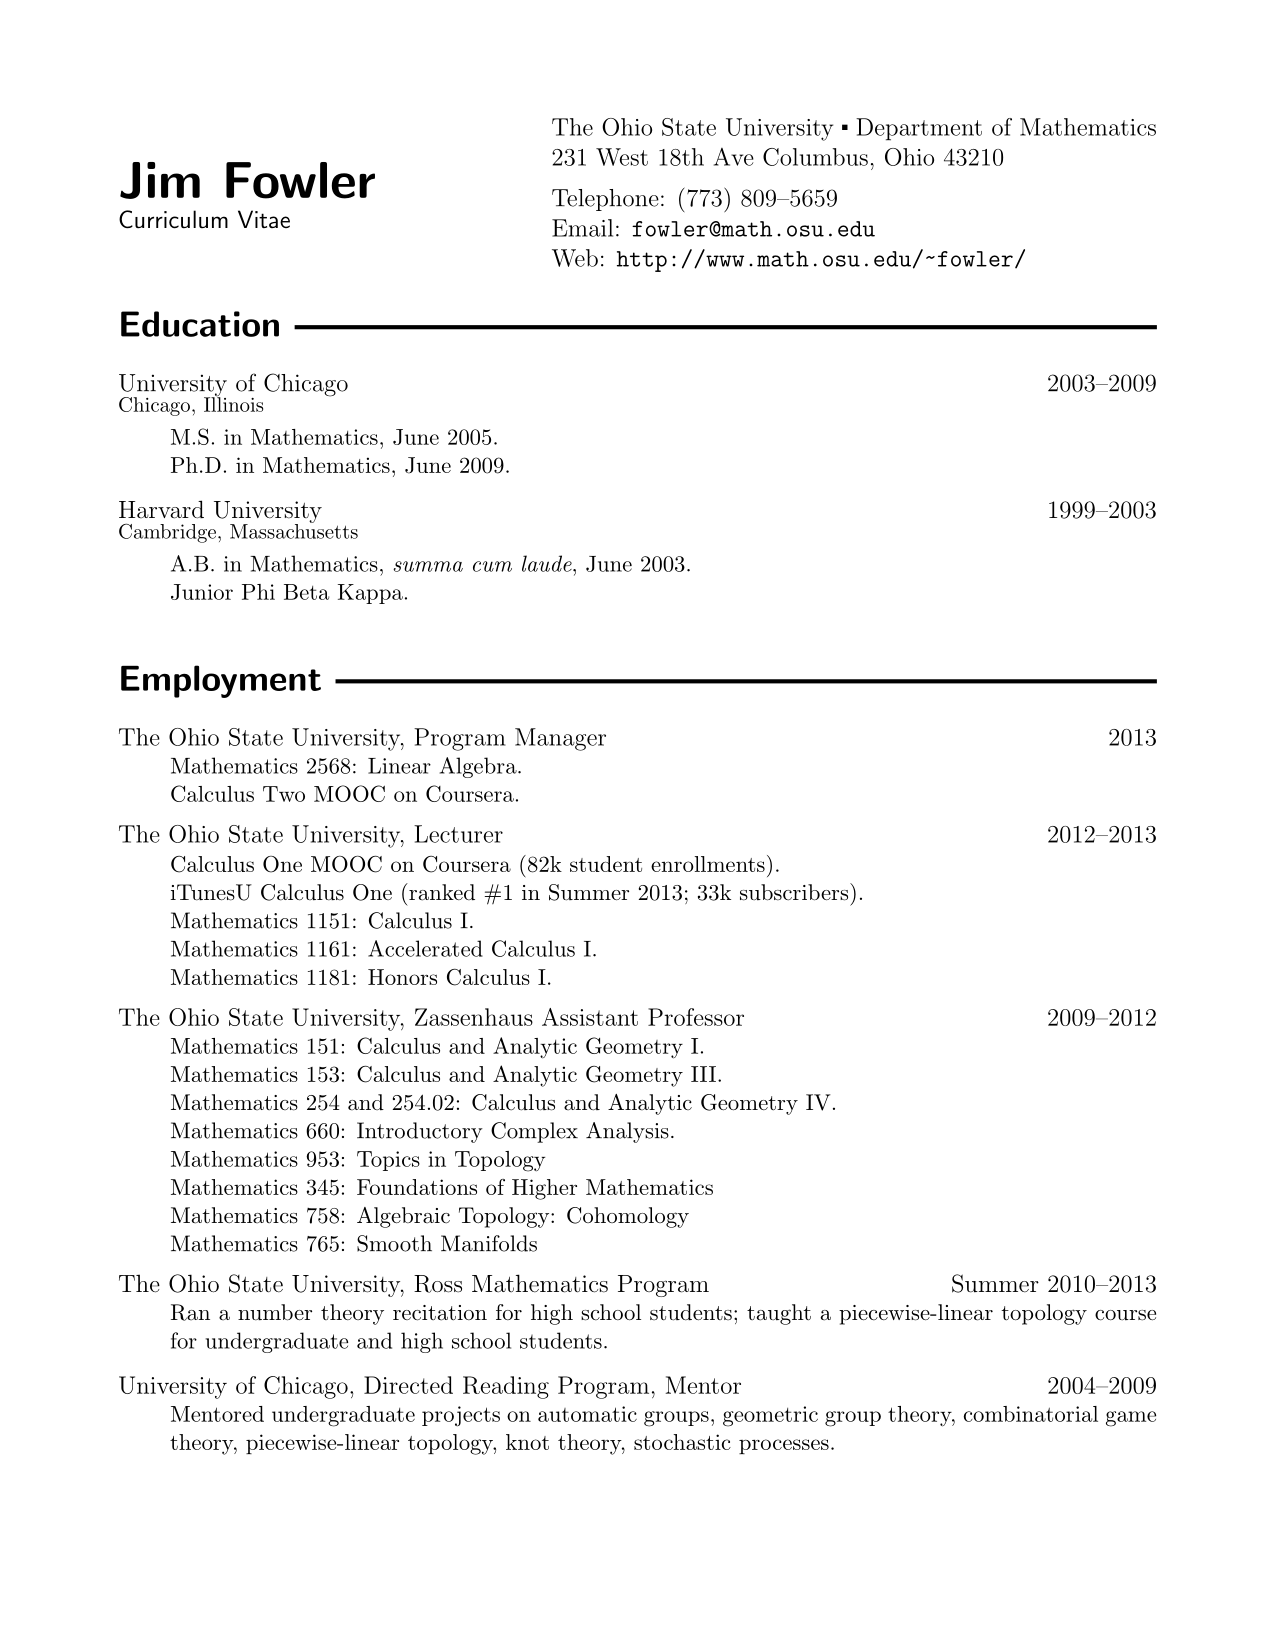
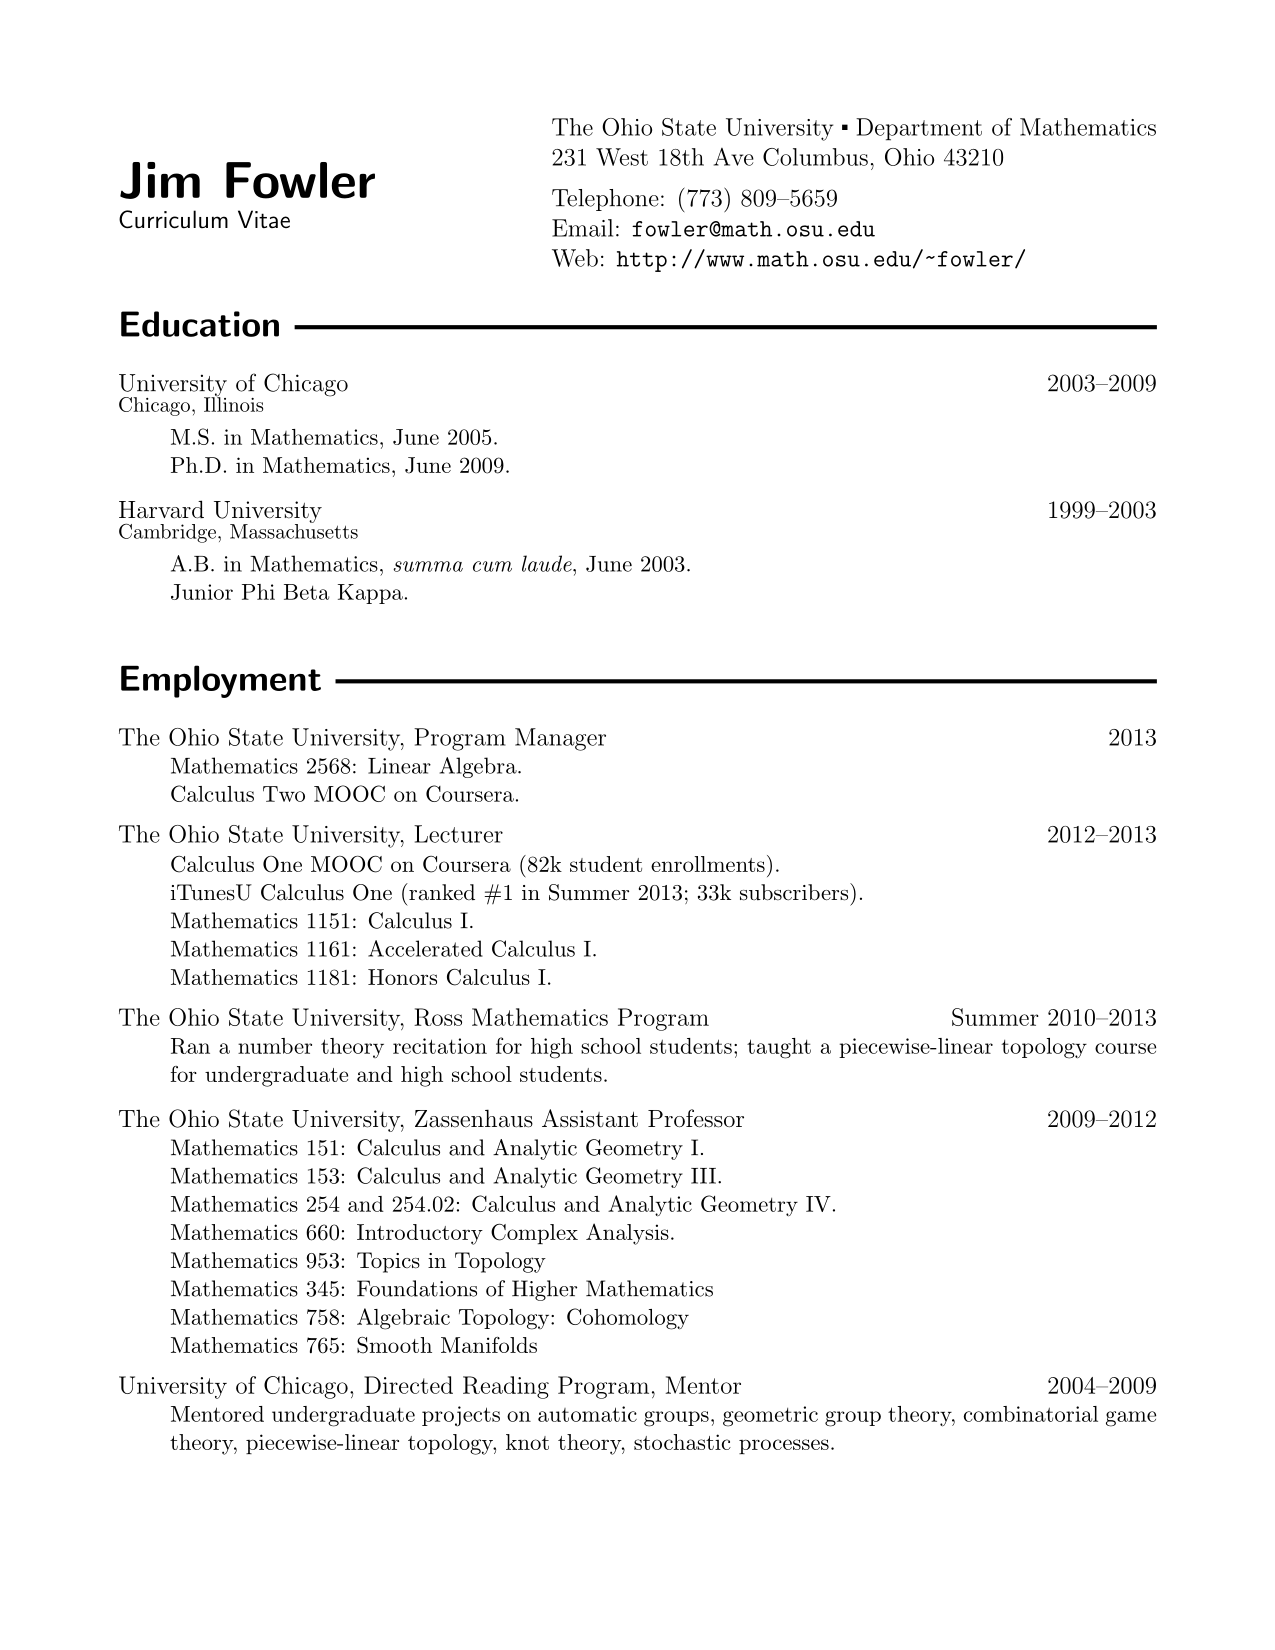
Updated curriculum vitae

diff --git a/views/cv/cv.html b/views/cv/cv.html
@@ -24,15 +24,15 @@
 </div>
 <div class="description"><a href="https://www.coursera.org/course/calc1">Calculus One MOOC on Coursera</a> (82k student enrollments).<br/><a href="https://itunes.apple.com/us/course/calculus-one/id660718824">iTunesU Calculus One</a> (ranked #1 in Summer 2013; 33k subscribers). <br/>Mathematics 1151: Calculus I. <br/>Mathematics 1161: Accelerated Calculus I. <br/>Mathematics 1181: Honors Calculus I.</div>
 <div class="cvitem">
-  <div class="cvtext">The Ohio State University, Zassenhaus Assistant Professor</div>
-  <div class="cvtime">2009&ndash;2012</div>
-</div>
-<div class="description">Mathematics 151: Calculus and Analytic Geometry I. <br/>Mathematics 153: Calculus and Analytic Geometry III. <br/>Mathematics 254 and 254.02: Calculus and Analytic Geometry IV. <br/>Mathematics 660: Introductory Complex Analysis. <br/>Mathematics 953: Topics in Topology <br/>Mathematics 345: Foundations of Higher Mathematics <br/>Mathematics 758: Algebraic Topology: Cohomology <br/>Mathematics 765: Smooth Manifolds</div>
-<div class="cvitem">
   <div class="cvtext">The Ohio State University, Ross Mathematics Program</div>
   <div class="cvtime">Summer 2010&ndash;2013</div>
 </div>
 <div class="description">Ran a number theory recitation for high school students; taught a piecewise-linear topology course for undergraduate and high school students.</div>
+<div class="cvitem">
+  <div class="cvtext">The Ohio State University, Zassenhaus Assistant Professor</div>
+  <div class="cvtime">2009&ndash;2012</div>
+</div>
+<div class="description">Mathematics 151: Calculus and Analytic Geometry I. <br/>Mathematics 153: Calculus and Analytic Geometry III. <br/>Mathematics 254 and 254.02: Calculus and Analytic Geometry IV. <br/>Mathematics 660: Introductory Complex Analysis. <br/>Mathematics 953: Topics in Topology <br/>Mathematics 345: Foundations of Higher Mathematics <br/>Mathematics 758: Algebraic Topology: Cohomology <br/>Mathematics 765: Smooth Manifolds</div>
 <div class="cvitem">
   <div class="cvtext">University of Chicago, <a href="http://www.math.uchicago.edu/&nbsp;drp/">Directed Reading Program</a>, Mentor</div>
   <div class="cvtime">2004&ndash;2009</div>
@@ -130,6 +130,10 @@
   <div class="cvtime">October 5, 2013</div>
 </div>
 <div class="cvitem">
+  <div class="cvtext"><div class="event">E-Learning and the MOOCS at OSU</div><div class="place"><a href="http://hr.osu.edu/osura/">OSURA</a><br/>Columbus, Ohio</div></div>
+  <div class="cvtime">September 26, 2013</div>
+</div>
+<div class="cvitem">
   <div class="cvtext"><div class="event">Hyperbolic knots and their volumes</div><div class="place">OSU Quantum Topology Group</div></div>
   <div class="cvtime">September 10, 2013</div>
 </div>
@@ -142,12 +146,16 @@
   <div class="cvtime">October 20&ndash;21, 2012</div>
 </div>
 <div class="cvitem">
-  <div class="cvtext"><div class="event">Rational projective planes</div><div class="place"><a href="http://www.matem.unam.mx/STDC2012/">Spring Topology and Dynamics Conference</a><br/>Universidad Nacional Autonoma de M\'xico</div></div>
+  <div class="cvtext"><div class="event">Rational projective planes</div><div class="place"><a href="http://www.matem.unam.mx/STDC2012/">Spring Topology and Dynamics Conference</a><br/>Universidad Nacional Autonoma de M&eacute;xico</div></div>
   <div class="cvtime">March 22&ndash;24, 2012</div>
 </div>
 <div class="cvitem">
   <div class="cvtext"><div class="event">Poincar&eacute; duality groups</div><div class="place"><a href="http://www.mfo.de/occasion/1150">Stratified Spaces: Joining Analysis, Topology and Geometry</a><br/>Mathematisches Forschungsinstitut Oberwolfach</div></div>
   <div class="cvtime">December 11&ndash;17, 2011</div>
+</div>
+<div class="cvitem">
+  <div class="cvtext"><div class="event">Remarks on rational homology manifolds</div><div class="place"><a href="http://www.math.osu.edu/&nbsp;math-indira/lastweek.html">Conference in Geometric Group Theory and related topics</a><br/>The Ohio State University</div></div>
+  <div class="cvtime">May 30&ndash;June 3, 2011</div>
 </div>
 <div class="cvitem">
   <div class="cvtext"><div class="event">Weighted algebraic topology</div><div class="place"><a href="http://www.math.osu.edu/&nbsp;lafont.1/HighDimTopConf.html">Geometrical methods in high-dimensional topology</a><br/>The Ohio State University</div></div>
@@ -344,6 +352,19 @@
   <div class="cvtime">2013&ndash;Present</div>
 </div>
 <div class="cvitem">
+  <div class="cvtext">The Ohio State University, <a href="https://steamfactory.osu.edu/">STEAM Factory</a>, Founding Director, Core Committee</div>
+  <div class="cvtime">2012&ndash;Present</div>
+</div>
+<div class="cvitem">
+  <div class="cvtext">The Ohio State University, eLearning Committee</div>
+  <div class="cvtime">2012&ndash;Present</div>
+</div>
+<div class="description">Organized technology enhanced lectures and built <a href="https://mooculus.osu.edu/">mooculus.osu.edu</a>.</div>
+<div class="cvitem">
+  <div class="cvtext"><a href="http://www.math.osu.edu/&nbsp;fowler.291/topology/">The Ohio State University, Topology Seminar Co-Coordinator</a></div>
+  <div class="cvtime">2010&ndash;Present</div>
+</div>
+<div class="cvitem">
   <div class="cvtext">Ohio Board of Regents, Ohio Textbook Affordability Summit, Faculty Panelist</div>
   <div class="cvtime">September 27, 2013</div>
 </div>
@@ -358,19 +379,6 @@
 <div class="cvitem">
   <div class="cvtext">The Ohio State University, <a href="http://ucat.osu.edu/participate/events/expanding-the-student-learning-experience-capitalize-on-your-time-together-hyflex-and-flipped-models">University Center for the Advancement of Teaching</a>, Faculty Panelist</div>
   <div class="cvtime">February 20, 2013</div>
-</div>
-<div class="cvitem">
-  <div class="cvtext">The Ohio State University, <a href="https://steamfactory.osu.edu/">STEAM Factory</a>, Founding Director, Core Committee</div>
-  <div class="cvtime">2012&ndash;Present</div>
-</div>
-<div class="cvitem">
-  <div class="cvtext">The Ohio State University, eLearning Committee</div>
-  <div class="cvtime">2012&ndash;Present</div>
-</div>
-<div class="description">Organized technology enhanced lectures and built <a href="https://mooculus.osu.edu/">mooculus.osu.edu</a>.</div>
-<div class="cvitem">
-  <div class="cvtext"><a href="http://www.math.osu.edu/&nbsp;fowler.291/topology/">The Ohio State University, Topology Seminar Co-Coordinator</a></div>
-  <div class="cvtime">2010&ndash;Present</div>
 </div>
 <div class="cvitem">
   <div class="cvtext">The Ohio State University, <a href="http://www.math.osu.edu/&nbsp;math-indira/SGGT.html">Special Year in Geometry and Topology</a>, Graduate Student Seminar Organizer</div>
